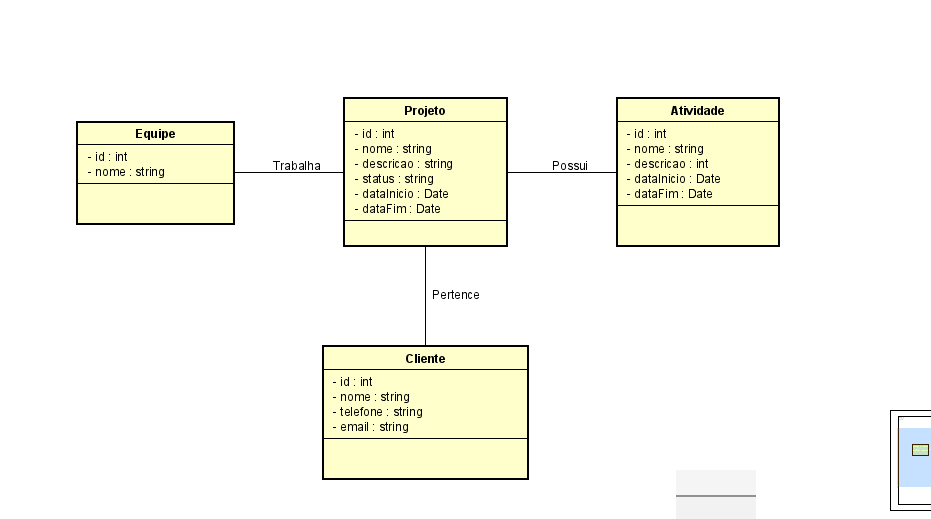
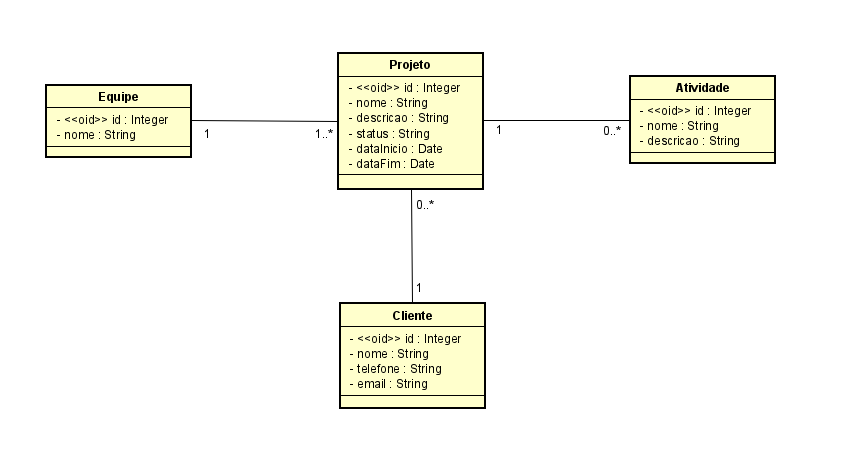
docs: atualizando modelo conceitual

Changed region(s): [[0.0305, 0.0919, 0.9144, 0.9497], [0.9449, 0.7965, 1.0, 1.0], [0.7315, 0.9497, 0.823, 0.9803]]

diff --git a/backend/src/main/java/com/valdirsillva/backend/BackendApplication.java b/backend/src/main/java/com/valdirsillva/backend/BackendApplication.java
@@ -9,6 +9,4 @@ public class BackendApplication {
 	public static void main(String[] args) {
 		SpringApplication.run(BackendApplication.class, args);
 	}
-
-	// https://www.youtube.com/watch?v=Nb4uxLxdvxo
 }

diff --git a/etapas.md b/etapas.md
@@ -1,0 +1,13 @@
+### Etapas de construção
+
+[x] O Sistema deverá permitir adicionar ATIVIDADES para um CLIENTE em seu PROJETO;
+[x] Back-end da aplicação deve ser com Java e Spring Boot;
+[x] Os registros devem ser persistidos com mapeado ORM utilizando o
+Hibernate em um banco de dados postgres;
+
+[x] Front-end em VueJs;
+[x] Criar um diagrama de classe com as entidades do projeto.
+[x] Deve existir uma tela que lista os PROJETOS em aberto (tratar status do projeto)
+[x] Criar diagrama de classe das entidades
+[]  Tratar status do projeto
+[]  Cobertura de teste 80% na camada de regra de negocio;
